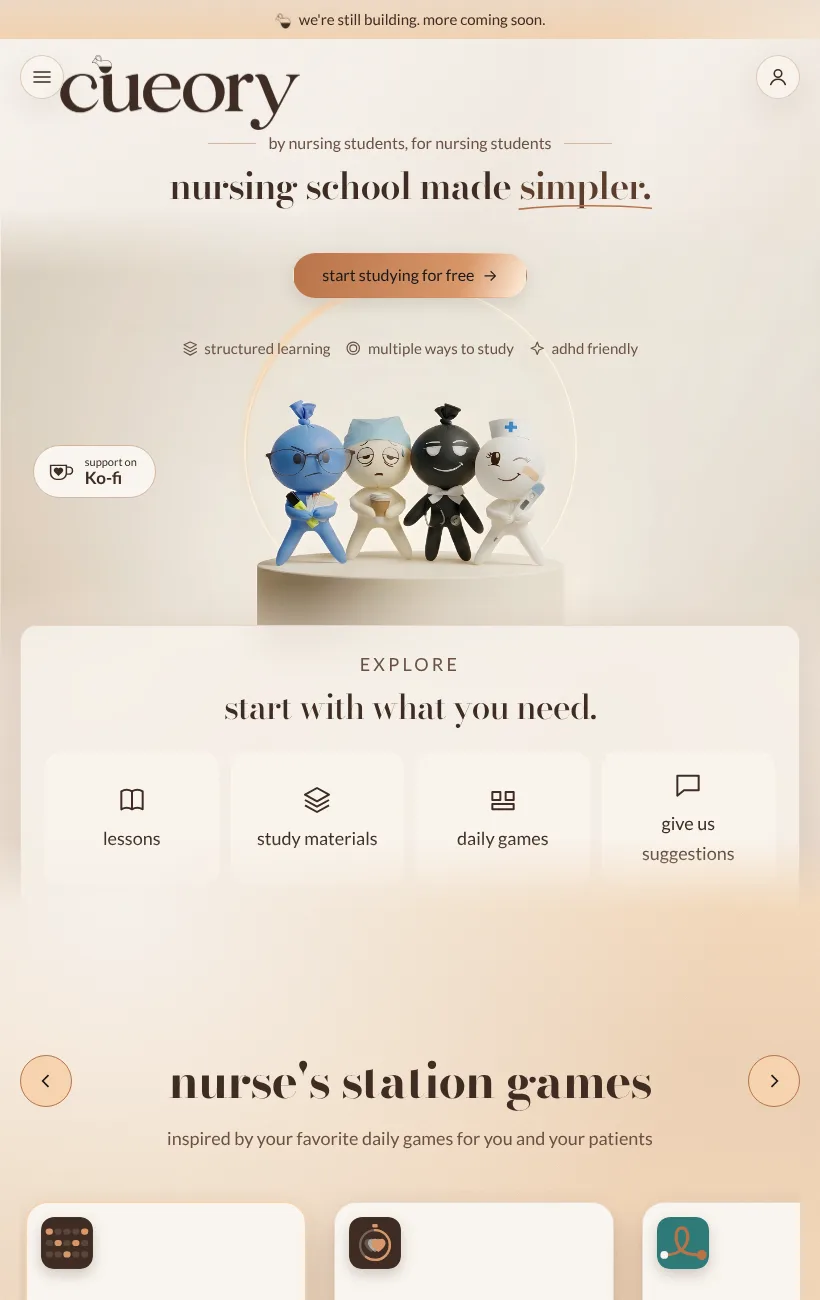
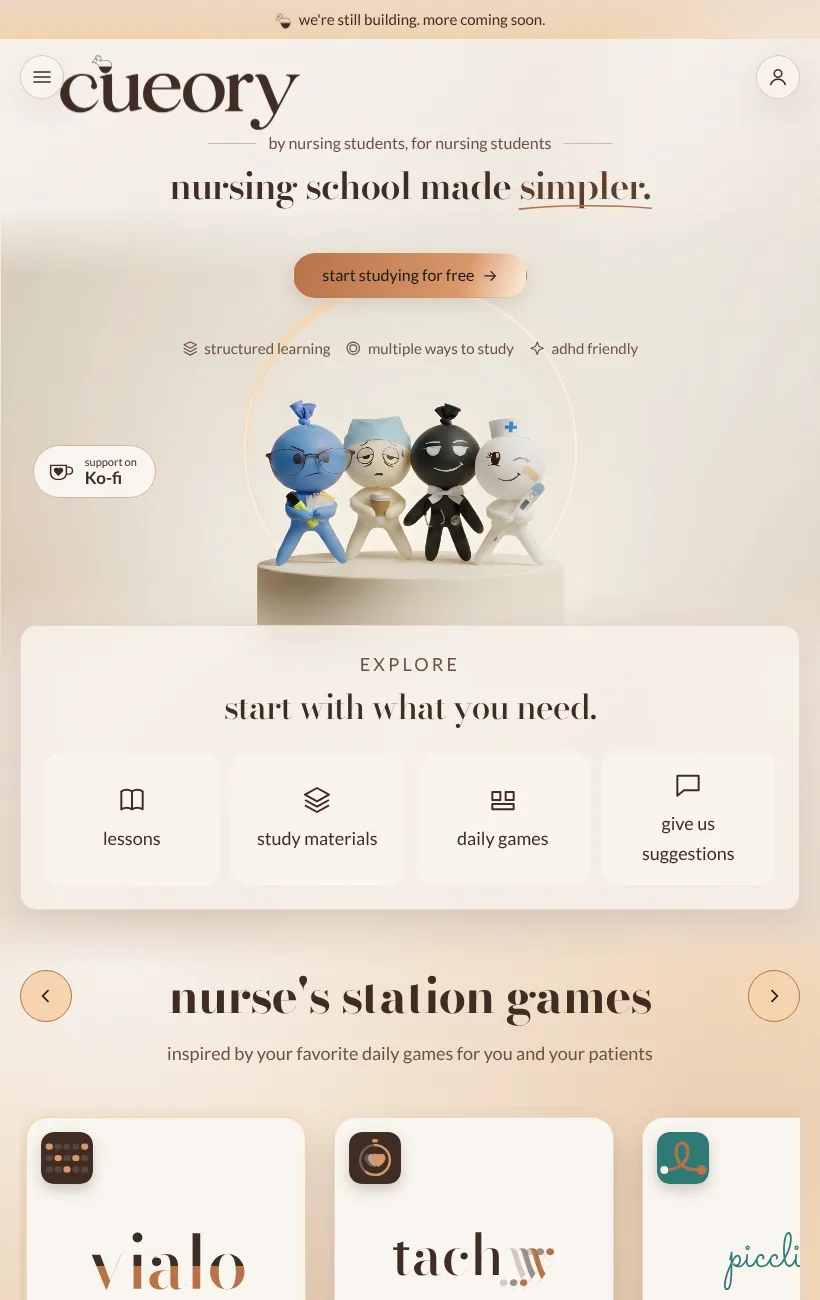
Home v3 hero: dock-to-next-section gap as the board (59 / 64 / 59 px), gap strip under the dock
The strip under the dock is the only gap to the next section (it is also where the next scene fades in, so it stays
free of text); the next section and the games container no longer add their own top padding on top of it.
Proofs retaken.

Claude-Session: https://claude.ai/code/session_01V8pHm5xDFd3PCqqXThexqv

Changed region(s): [[0.0, 0.6769, 0.9756, 1.0], [0.6098, 0.6462, 0.9756, 0.7077]]

diff --git a/src/styles/tokens.css b/src/styles/tokens.css
@@ -1089,13 +1089,16 @@
 
 /* The explore dock overlaps the bottom of the stage by the board's margin-top of -92 px (docs/design/home-v3, nav margin -92 px
    under the stage) on desktop, tablet and phone portrait; phone landscape has it as a normal block under the points. */
+:root {
+  --stage-next-top-pad: 0px;       /* the next section adds none: the strip above already is the gap */
+  --stage-bottom-gap: 3.6875rem;   /* board: 59 px from the dock to the next heading. The next scene fades in over this strip, so no text sits in it */
+}
+@media (width < 40rem) {
+  :root { --stage-bottom-gap: var(--spacing-section-phone); --stage-next-top-pad: var(--spacing-section-phone); } /* board: 64 px (this strip plus the next section's 32 px) */
+}
 .scene-hero {
   --stage-dock-overlap: 5.75rem;
   --silk-wash-alpha: 0;      /* the board's hero is a lighter, greyer beige: no Copper Glow wash on this scene (the other home scenes keep theirs) */
-  --stage-bottom-gap: 0px;   /* space under the dock: the next section brings its own top padding, so desktop adds none */
-}
-@media (width < 40rem) {
-  .scene-hero { --stage-bottom-gap: var(--spacing-section-phone); } /* board: about 63 px from the dock to the next heading */
 }
 @media (orientation: landscape) and (40rem <= width < 60rem) and (height < 32rem) {
   .scene-hero { --stage-dock-overlap: 0px; }
